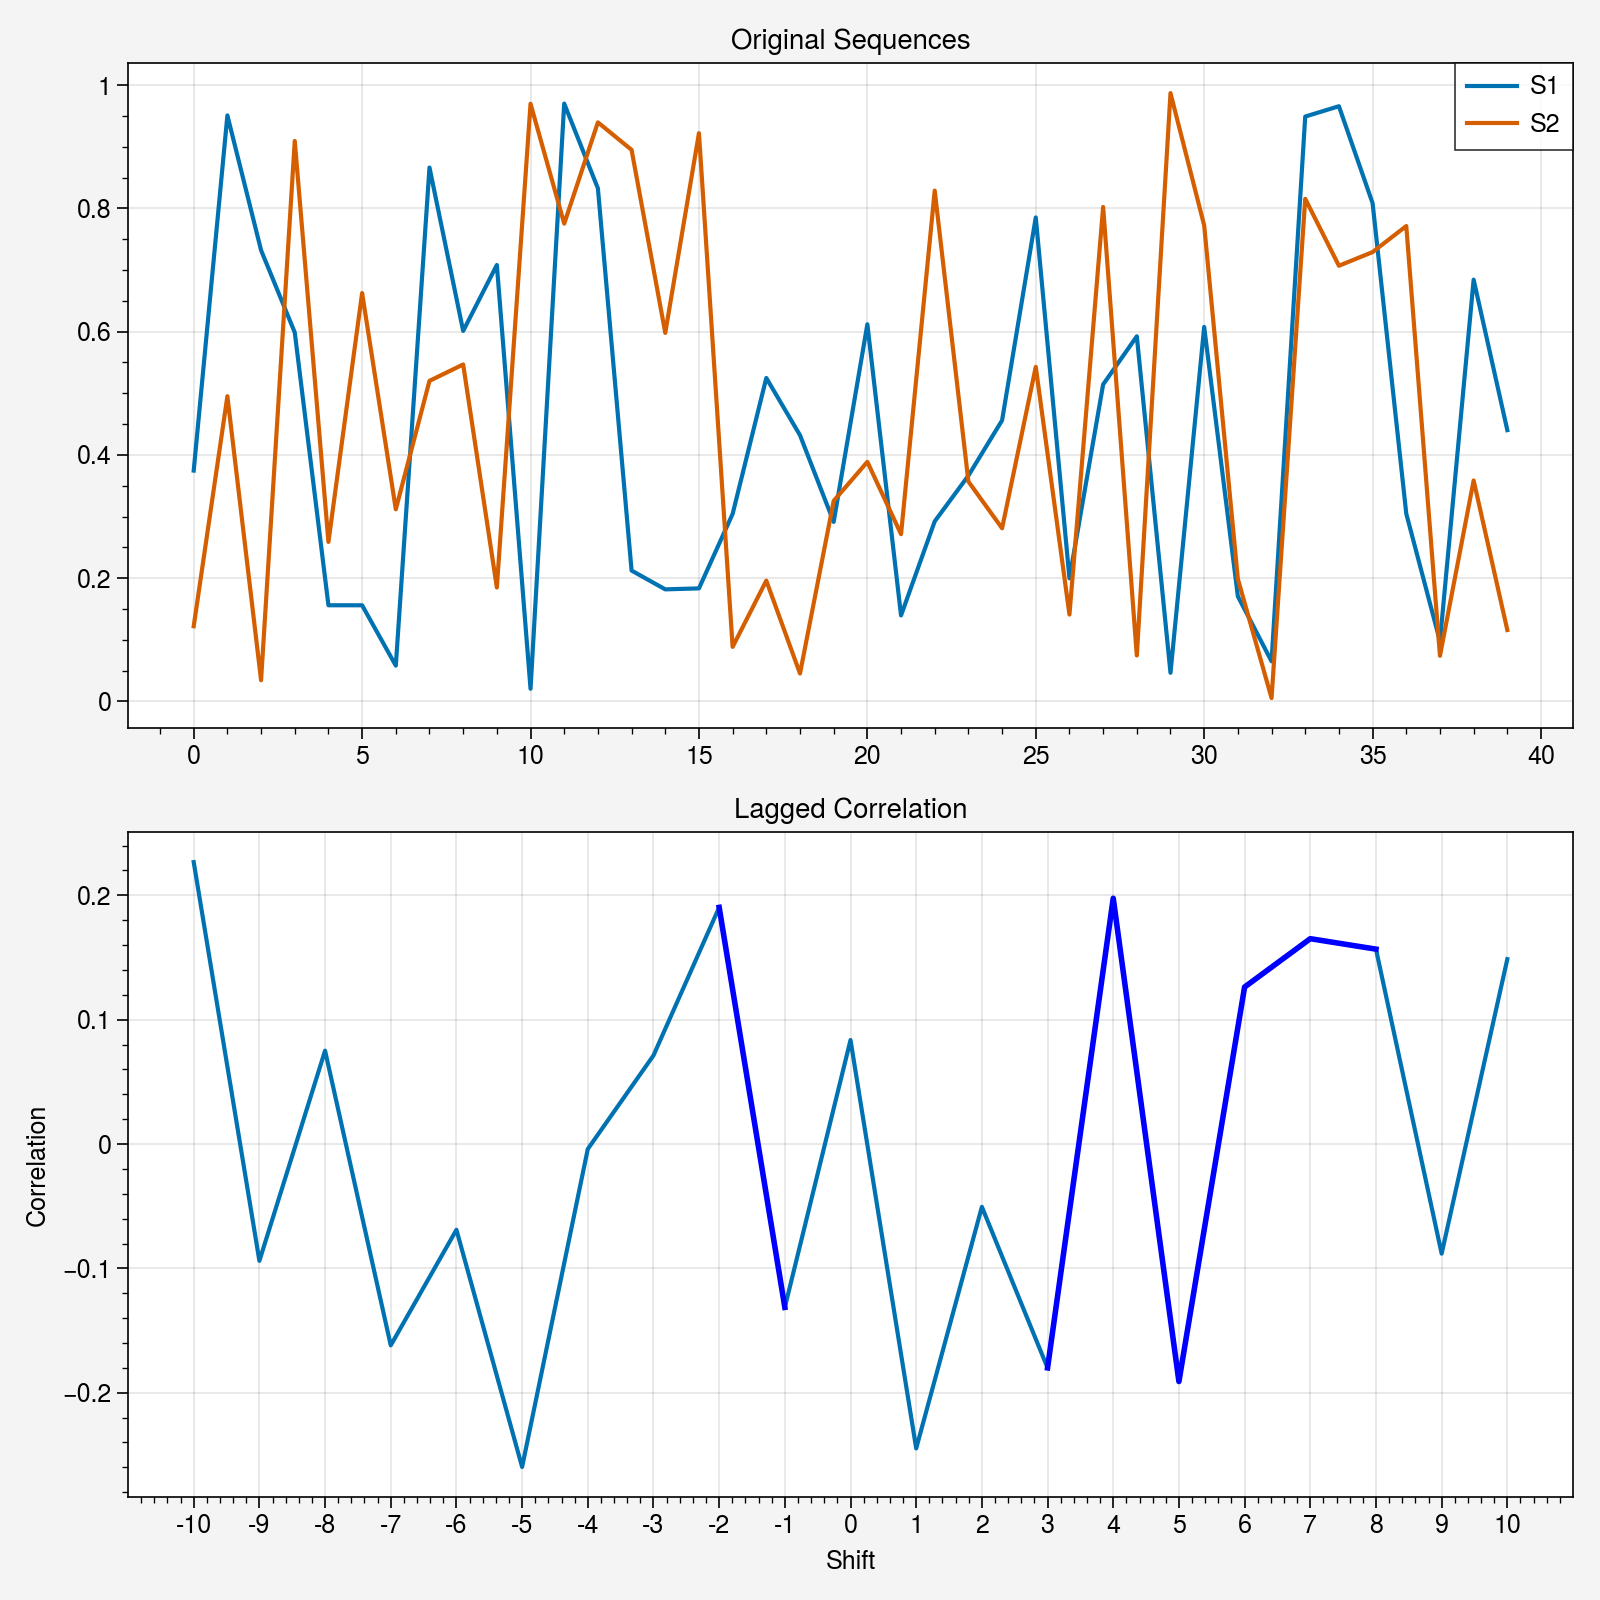
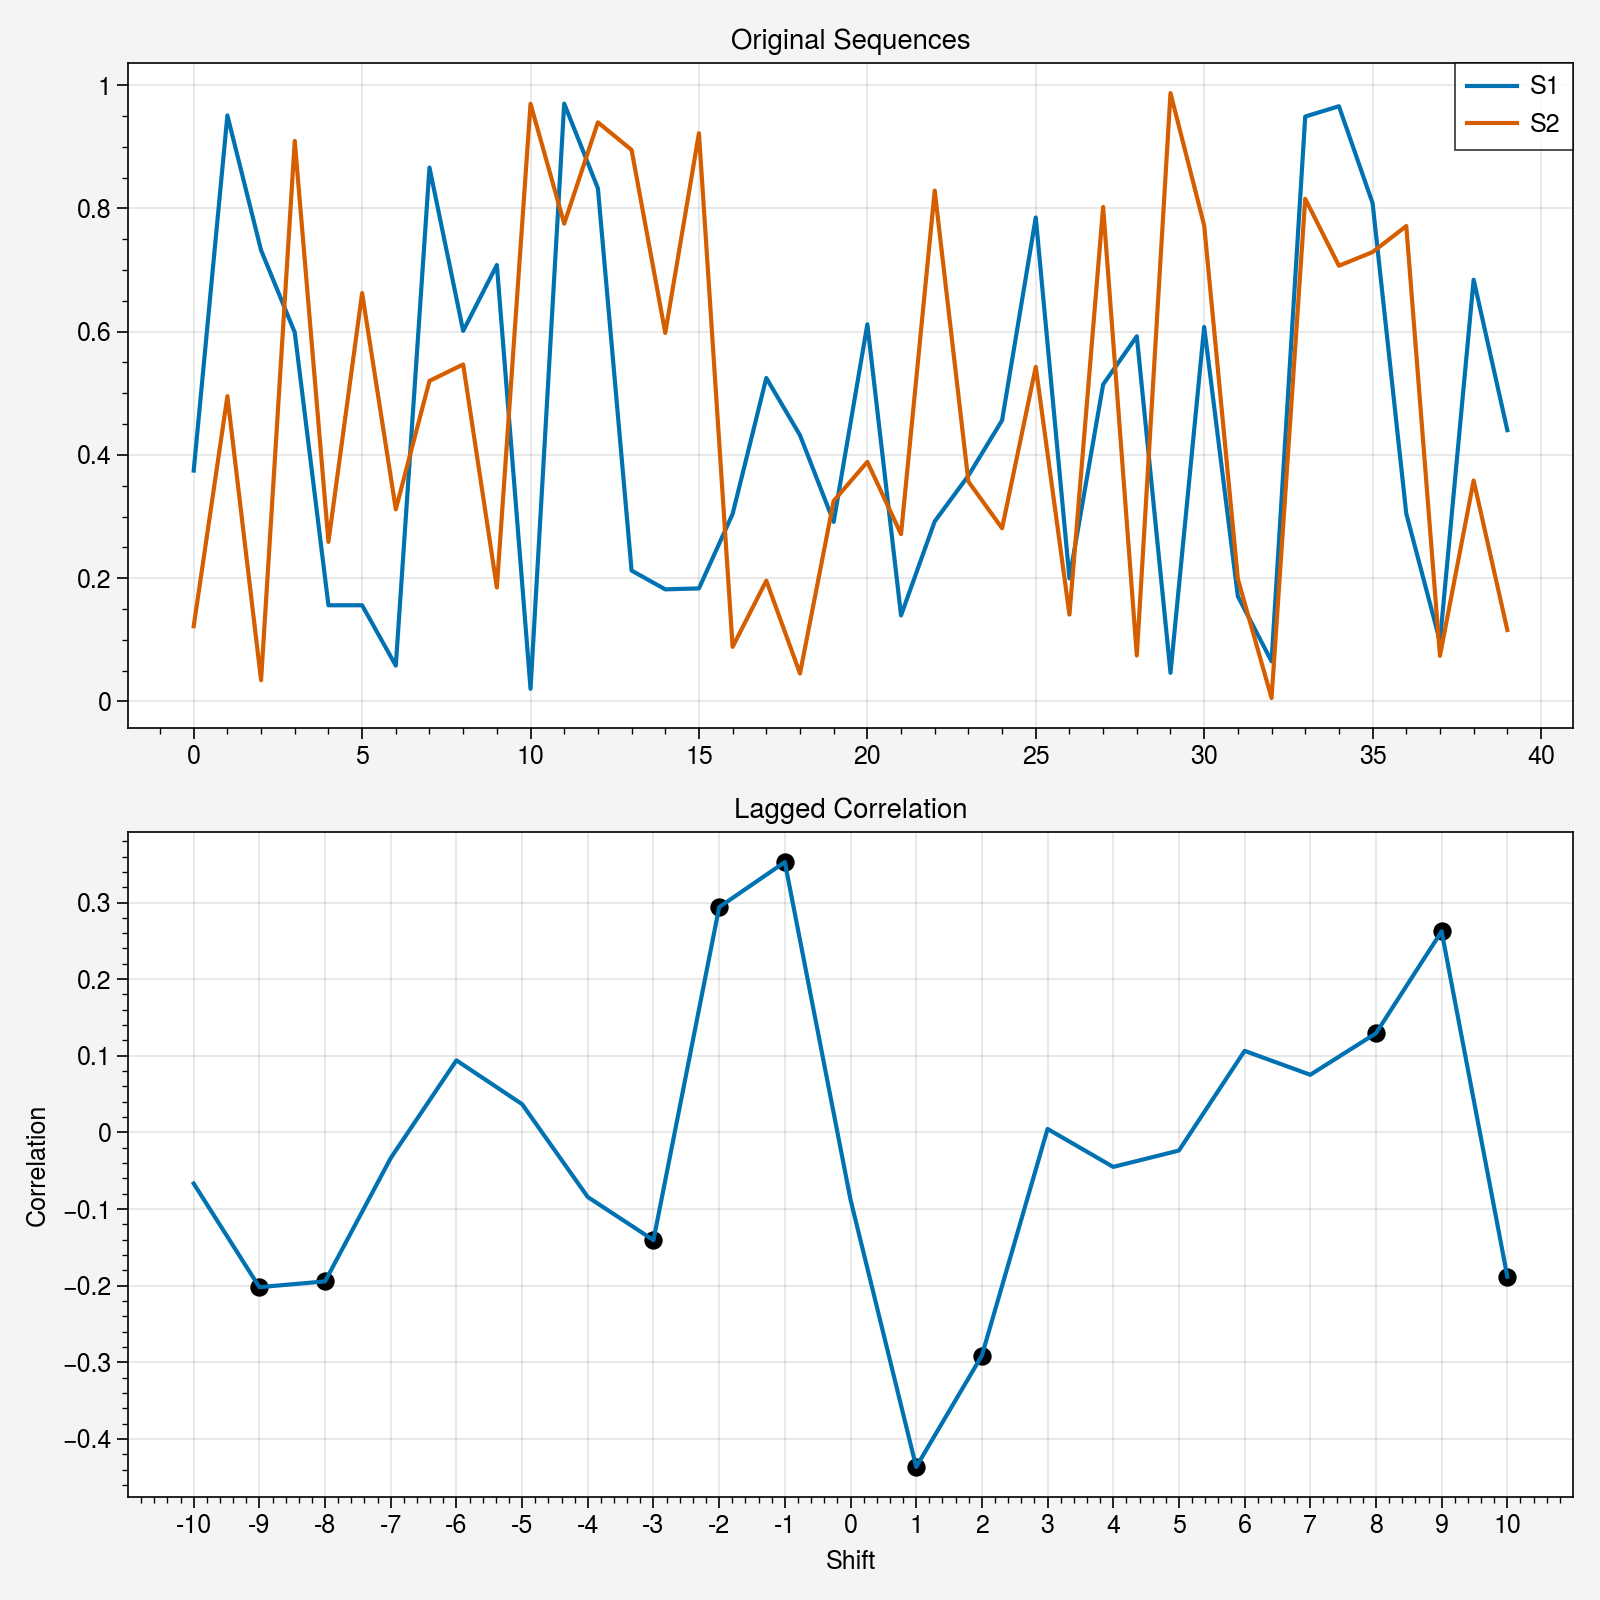
Site updated: 2023-12-13 21:47:40

diff --git a/2023/12/13/lead_lag_cor/index.html b/2023/12/13/lead_lag_cor/index.html
@@ -105,7 +105,7 @@
 <figure class="highlight plain"><table><tr><td class="gutter"><pre><span class="line">1</span><br><span class="line">2</span><br><span class="line">3</span><br><span class="line">4</span><br><span class="line">5</span><br><span class="line">6</span><br><span class="line">7</span><br><span class="line">8</span><br><span class="line">9</span><br><span class="line">10</span><br><span class="line">11</span><br></pre></td><td class="code"><pre><span class="line">超前&#x2F;滞后相关系数数组：</span><br><span class="line">[-0.0667701  -0.20196212 -0.19440555 -0.03344729  0.09401154  0.03682201</span><br><span class="line"> -0.08435947 -0.14058007  0.29389157  0.35276157 -0.08771688 -0.43661858</span><br><span class="line"> -0.29126164  0.00451985 -0.04504127 -0.02366273  0.10640454  0.0751925</span><br><span class="line">  0.1293342   0.26239277 -0.1882403 ]</span><br><span class="line"></span><br><span class="line">对应的 P 值数组：</span><br><span class="line">[0.72591345 0.27591415 0.28634049 0.8533993  0.59691207 0.83366645</span><br><span class="line"> 0.62472335 0.40659622 0.07330382 0.02761788 0.59042669 0.00545349</span><br><span class="line"> 0.07603491 0.97881895 0.79421402 0.89267097 0.5492149  0.67749602</span><br><span class="line"> 0.48050658 0.15385903 0.31916923]</span><br></pre></td></tr></table></figure>
 
 <p>可以对其进行一些简单的可视化：</p>
-<figure class="highlight python"><table><tr><td class="gutter"><pre><span class="line">1</span><br><span class="line">2</span><br><span class="line">3</span><br><span class="line">4</span><br><span class="line">5</span><br><span class="line">6</span><br><span class="line">7</span><br><span class="line">8</span><br><span class="line">9</span><br><span class="line">10</span><br><span class="line">11</span><br><span class="line">12</span><br><span class="line">13</span><br><span class="line">14</span><br><span class="line">15</span><br><span class="line">16</span><br><span class="line">17</span><br><span class="line">18</span><br><span class="line">19</span><br><span class="line">20</span><br><span class="line">21</span><br><span class="line">22</span><br></pre></td><td class="code"><pre><span class="line">fig, axs = plt.subplots(<span class="number">2</span>, <span class="number">1</span>, figsize=(<span class="number">8</span>, <span class="number">8</span>))</span><br><span class="line"><span class="comment"># 第一个子图：绘制两条序列的原始值</span></span><br><span class="line">axs[<span class="number">0</span>].plot(sequence1, label=<span class="string">'S1'</span>)</span><br><span class="line">axs[<span class="number">0</span>].plot(sequence2, label=<span class="string">'S2'</span>)</span><br><span class="line">axs[<span class="number">0</span>].set_title(<span class="string">'Original Sequences'</span>)</span><br><span class="line">axs[<span class="number">0</span>].legend()</span><br><span class="line"><span class="comment"># 第二个子图：绘制超前/滞后相关系数，并加粗 P 值小于 0.1 的部分</span></span><br><span class="line">shifts = np.arange(-max_shift, max_shift + <span class="number">1</span>) </span><br><span class="line">axs[<span class="number">1</span>].plot(shifts, correlations, label=<span class="string">'Correlation'</span>)</span><br><span class="line">axs[<span class="number">1</span>].set_title(<span class="string">'Lagged Correlation'</span>)</span><br><span class="line"><span class="comment"># 根据 P 值小于 0.1 的部分加粗或是打点</span></span><br><span class="line">threshold = <span class="number">0.5</span></span><br><span class="line">mask = p_values &lt; threshold</span><br><span class="line">axs[<span class="number">1</span>].plot(np.where(mask, shifts, np.nan), np.where(mask, correlations, np.nan), <span class="string">'b'</span>, linewidth=<span class="number">2</span>)  <span class="comment"># 用蓝色加粗表示 P 值小于阈值的部分</span></span><br><span class="line"><span class="comment"># axs[1].scatter(shifts[mask], correlations[mask], color='black', marker='o')  # 使用 scatter 绘制黑色实心圆</span></span><br><span class="line"><span class="comment">#修改轴刻度</span></span><br><span class="line">axs[<span class="number">1</span>].set_xlabel(<span class="string">'Shift'</span>)  </span><br><span class="line">axs[<span class="number">1</span>].set_ylabel(<span class="string">'Correlation'</span>)  </span><br><span class="line">axs[<span class="number">1</span>].set_xticks(shifts)  </span><br><span class="line">axs[<span class="number">1</span>].set_xticklabels(shifts)  </span><br><span class="line">plt.tight_layout()</span><br><span class="line">plt.show()</span><br></pre></td></tr></table></figure>
+<figure class="highlight python"><table><tr><td class="gutter"><pre><span class="line">1</span><br><span class="line">2</span><br><span class="line">3</span><br><span class="line">4</span><br><span class="line">5</span><br><span class="line">6</span><br><span class="line">7</span><br><span class="line">8</span><br><span class="line">9</span><br><span class="line">10</span><br><span class="line">11</span><br><span class="line">12</span><br><span class="line">13</span><br><span class="line">14</span><br><span class="line">15</span><br><span class="line">16</span><br><span class="line">17</span><br><span class="line">18</span><br><span class="line">19</span><br><span class="line">20</span><br><span class="line">21</span><br><span class="line">22</span><br></pre></td><td class="code"><pre><span class="line">fig, axs = plt.subplots(<span class="number">2</span>, <span class="number">1</span>, figsize=(<span class="number">8</span>, <span class="number">8</span>))</span><br><span class="line"><span class="comment"># 第一个子图：绘制两条序列的原始值</span></span><br><span class="line">axs[<span class="number">0</span>].plot(sequence1, label=<span class="string">'S1'</span>)</span><br><span class="line">axs[<span class="number">0</span>].plot(sequence2, label=<span class="string">'S2'</span>)</span><br><span class="line">axs[<span class="number">0</span>].set_title(<span class="string">'Original Sequences'</span>)</span><br><span class="line">axs[<span class="number">0</span>].legend()</span><br><span class="line"><span class="comment"># 第二个子图：绘制超前/滞后相关系数，并加粗 P 值小于 0.1 的部分</span></span><br><span class="line">shifts = np.arange(-max_shift, max_shift + <span class="number">1</span>) </span><br><span class="line">axs[<span class="number">1</span>].plot(shifts, correlations, label=<span class="string">'Correlation'</span>)</span><br><span class="line">axs[<span class="number">1</span>].set_title(<span class="string">'Lagged Correlation'</span>)</span><br><span class="line"><span class="comment"># 根据 P 值小于 0.1 的部分加粗或是打点</span></span><br><span class="line">threshold = <span class="number">0.5</span></span><br><span class="line">mask = p_values &lt; threshold</span><br><span class="line"><span class="comment">#打点表示 P 值小于阈值的部分</span></span><br><span class="line">axs[<span class="number">1</span>].scatter(shifts[mask], correlations[mask], color=<span class="string">'black'</span>, marker=<span class="string">'o'</span>)  <span class="comment"># 使用 scatter 绘制黑色实心圆</span></span><br><span class="line"><span class="comment">#修改轴刻度</span></span><br><span class="line">axs[<span class="number">1</span>].set_xlabel(<span class="string">'Shift'</span>)  </span><br><span class="line">axs[<span class="number">1</span>].set_ylabel(<span class="string">'Correlation'</span>)  </span><br><span class="line">axs[<span class="number">1</span>].set_xticks(shifts)  </span><br><span class="line">axs[<span class="number">1</span>].set_xticklabels(shifts)  </span><br><span class="line">plt.tight_layout()</span><br><span class="line">plt.show()</span><br></pre></td></tr></table></figure>
 
 <p>图形输出为：</p>
 <p><img src="/image/lead_lag_cor.png" alt="image-20200528144651404"></p>
